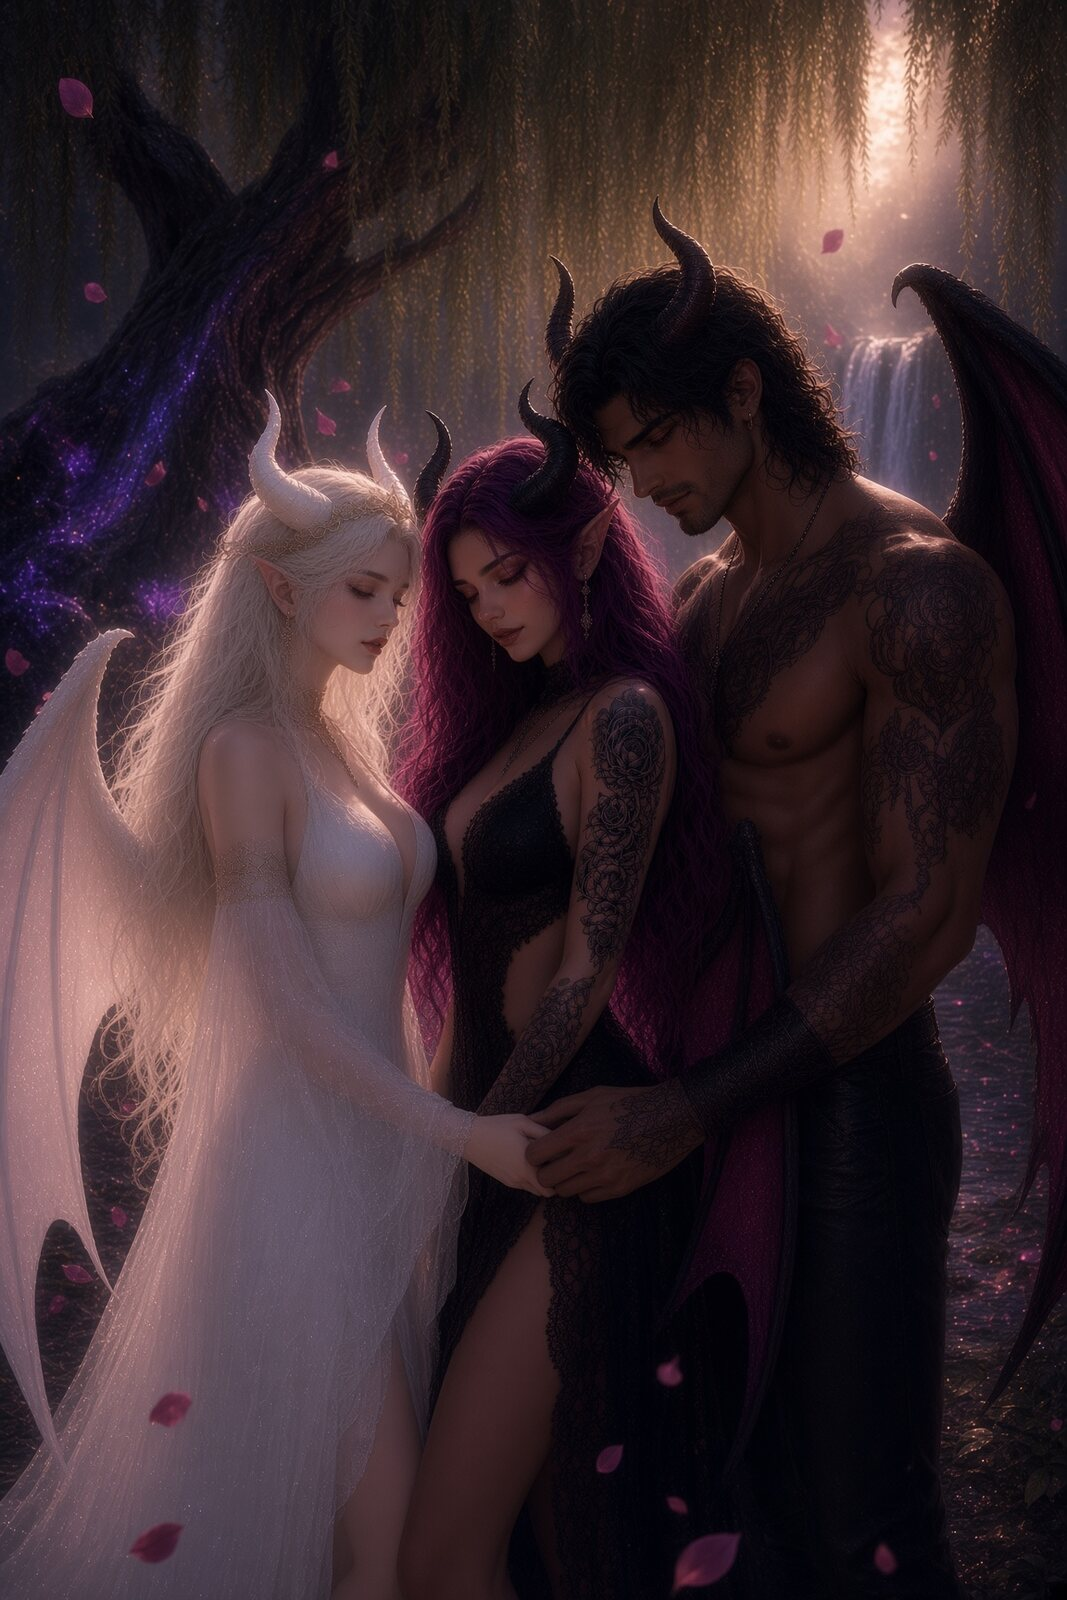
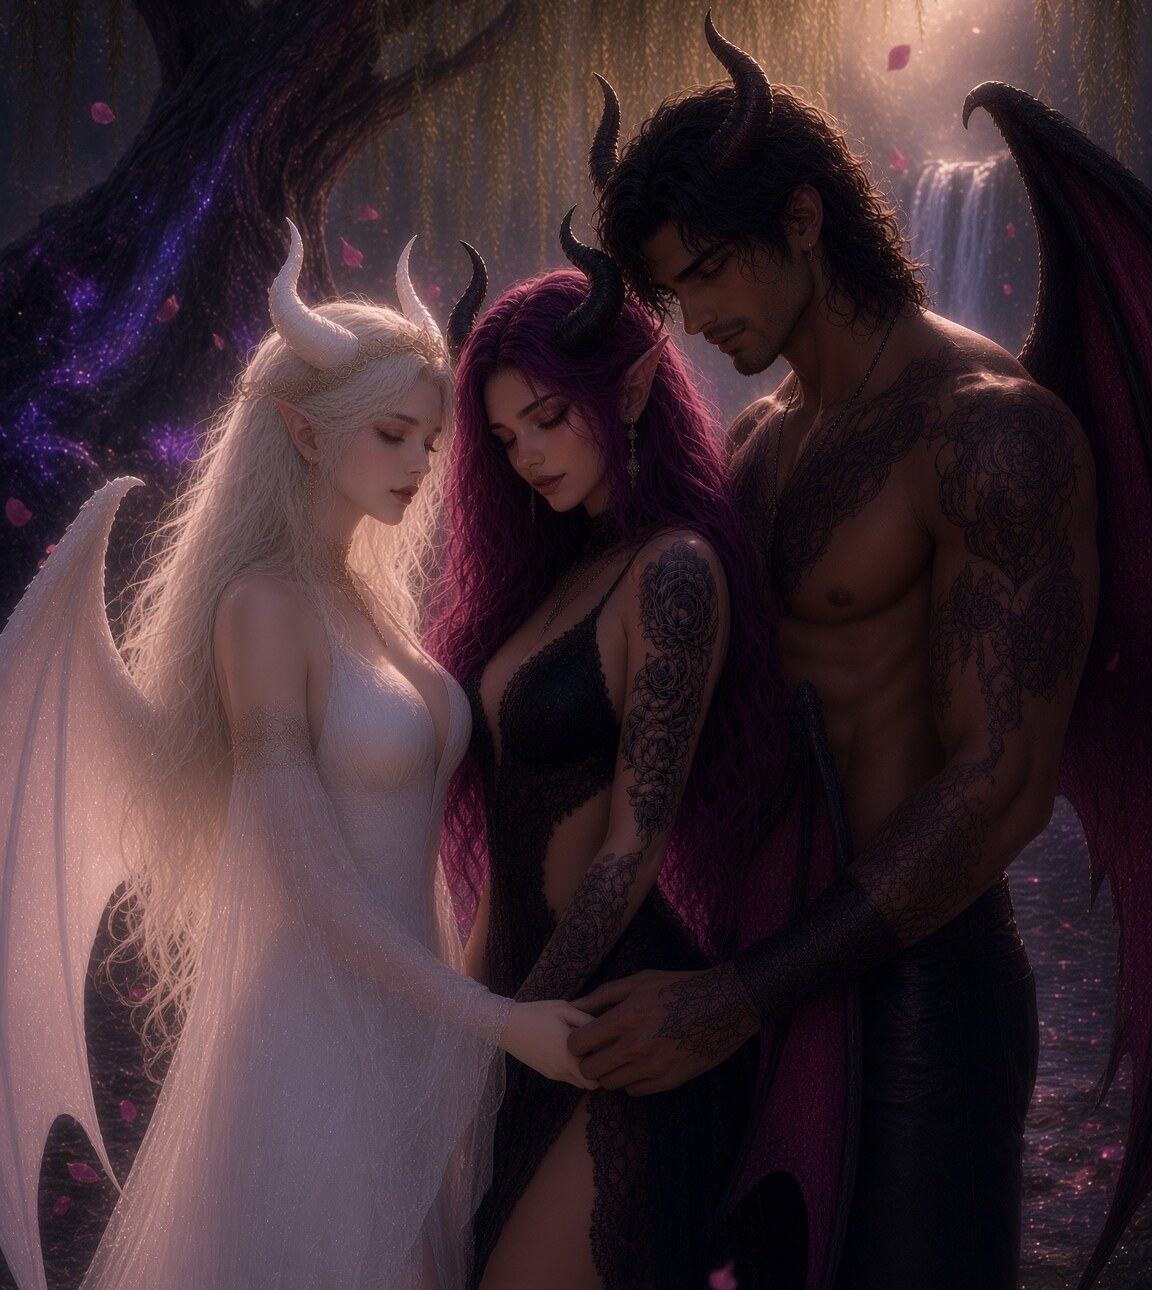
Replace Chapter X plate
Use What Remains.png from the Desktop original for What Remains.

diff --git a/part1/chapter-10.html b/part1/chapter-10.html
@@ -22,7 +22,7 @@
   <div class="bound">
     <main class="spread">
       <figure class="leaf-art">
-        <img src="../images/part1/ch10.jpg" alt="What Remains" />
+        <img src="../images/part1/ch10.jpg?v=2" alt="What Remains" />
       </figure>
       <article class="leaf-text">
         <p class="roman">Chapter X</p>
